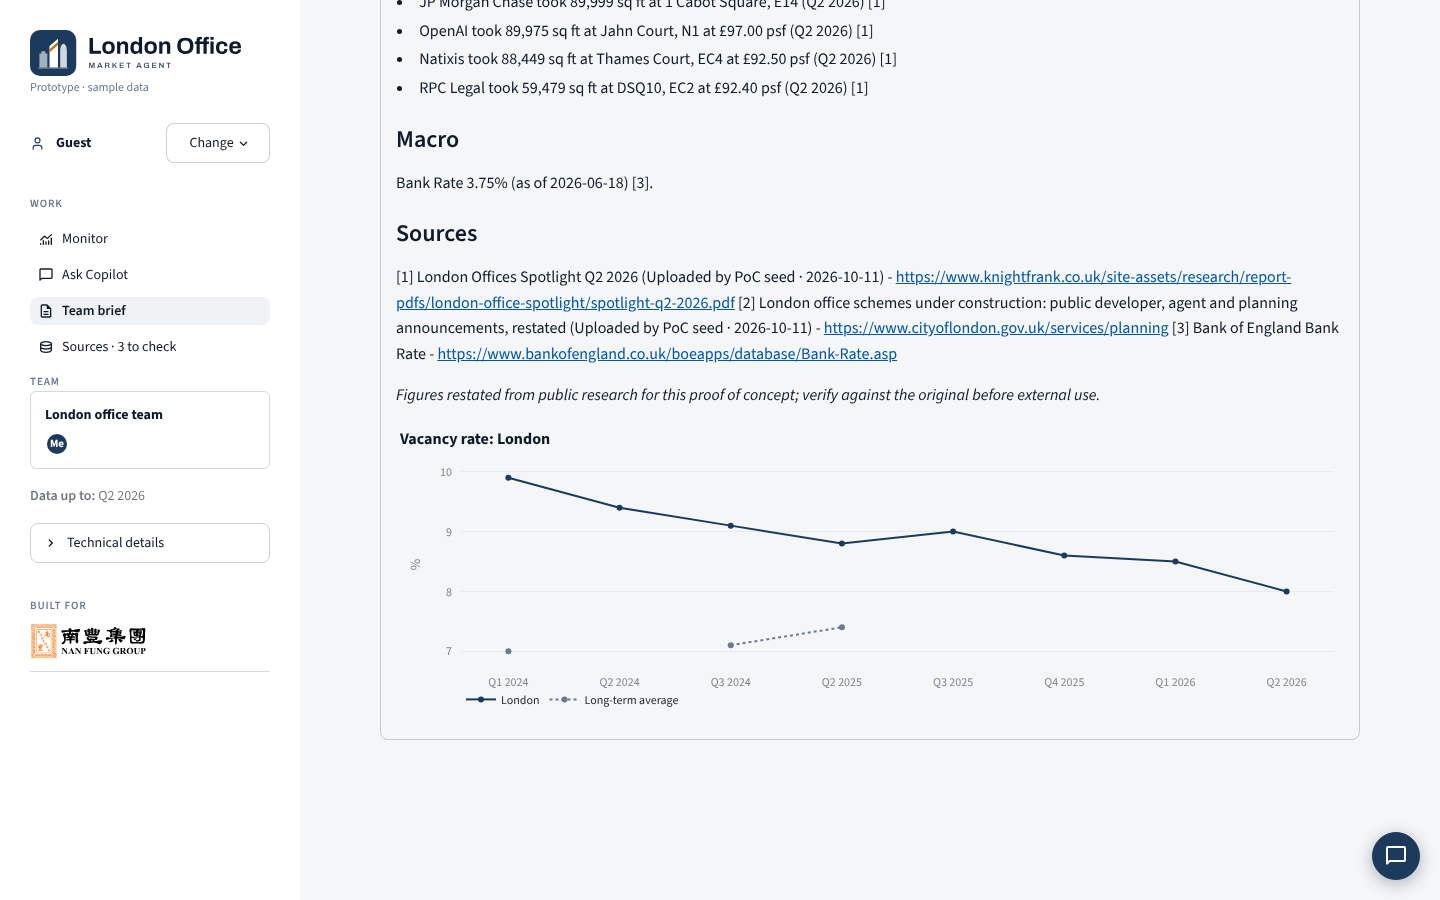
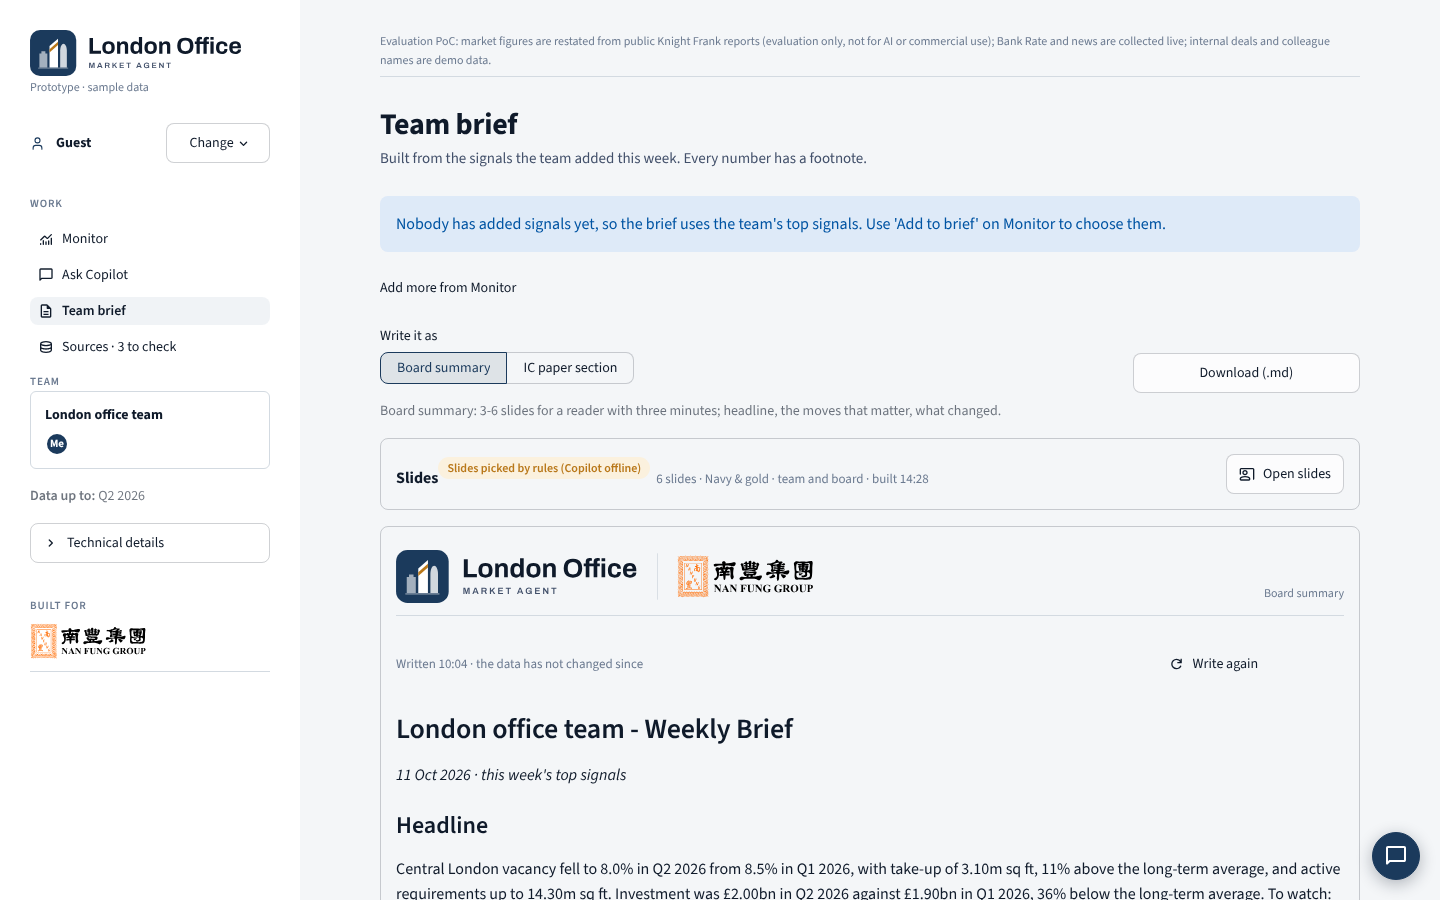
Team brief: the slides stay folded on the page
Before: the Slides block on Team brief showed the theme picker, download
buttons, a thumbnail of every slide and the "why these slides" notes on
the page itself.

After: one row with the deck's status (how it was chosen, slide count,
theme, when it was built, how often edited) and a single button: Build
slides when no deck exists for this data, Open slides once one does. The
button opens the floating editor, which holds the thumbnails, the theme
control, the downloads and the conversation.

Claude-Session: https://claude.ai/code/session_01VssUfiVQ3tn9b1dVnCTiLG

diff --git a/app.py b/app.py
@@ -118,7 +118,9 @@ SCOPE [class*="st-key-cp_top_"] { padding:10px 0 8px 0; margin-bottom:4px; }
 SCOPE [class*="st-key-cp_top_"] { flex-wrap:nowrap !important; }
 SCOPE [class*="st-key-cp_top_"] > .stElementContainer:has(> .stHtml) { flex:1 1 auto; width:auto !important; min-width:0; }
 SCOPE [class*="st-key-cp_top_"] > .stElementContainer:has(> .stHtml) .loa-cp-title { flex-wrap:nowrap; overflow:hidden; }
-SCOPE [class*="st-key-cp_top_"] .loa-cp-title .loa-chip { overflow:hidden; text-overflow:ellipsis; max-width:260px; }
+SCOPE [class*="st-key-cp_top_"] .loa-cp-title .loa-deck-row { display:flex; align-items:center; gap:12px; flex-wrap:wrap; font-size:14px; }
+.loa-deck-row .loa-muted { font-size:13px; }
+.loa-chip { overflow:hidden; text-overflow:ellipsis; max-width:260px; }
 SCOPE .loa-cp-title { font-size:16px; font-weight:700; color:var(--ink); display:flex; align-items:center; gap:10px; flex-wrap:wrap; line-height:32px; }
 SCOPE .loa-cp-title .loa-chip { margin:0; font-weight:400; line-height:20px; background:var(--surface); border:1px solid var(--line); }
 SCOPE .loa-cp-title small { font-size:12px; font-weight:400; color:var(--ink3); }
@@ -2204,70 +2206,30 @@ def deck_editor():
 
 
 def deck_panel(fmt):
-    """One place for the slides: theme (with swatches), Build, and for a deck already built from this data the
-    preview (one image per slide), Download .pptx / .pdf, and why these slides. Changing the theme shows that
-    theme's deck if it was built, otherwise the Build button."""
-    with st.container(border=True):
-        st.markdown("**Slides**  ·  " + ("the Copilot reads this week's data and picks the slides, layouts and titles"
-                                        if engine.ready else "picked by rules from this week's data (Copilot offline)"))
-        c = st.columns([2.6, 1.3, 1.3, 1.0, 1.4], vertical_alignment="bottom")
-        if (w := st.session_state.pop("deck_theme_want", None)) and w[0] == fmt:
-            st.session_state[f"deck_theme_{fmt}"] = w[1]  # the editor changed the theme: follow it
-        theme = c[0].selectbox("Slide theme", list(DECK_THEMES), format_func=DECK_THEMES.get, key=f"deck_theme_{fmt}",
-                               index=list(DECK_THEMES).index("data-white" if fmt == "ic" else "navy-gold"),
-                               help="Each format remembers its own theme. IC packs default to Data white.")
-        hit = cached_deck(fmt, theme)
-        if c[1].button("Build again" if hit else "Build slides", key=f"mk_deck_{fmt}", width="stretch",
-                       type="secondary" if hit else "primary", icon=material("refresh-cw") if hit else None,
-                       help=("The slides for this data are already built; this plans them again" if hit else
-                             "Plans a 3-6 slide deck from this week's data; you watch each slide being laid out")):
-            open_deck_editor(fmt, theme, build=True)
-        if not hit:
-            c[4].caption("Five house themes, 13 layouts, every number footnoted and checked against the data. For a "
-                         "deck this button does not give you, ask Copilot: \"a client update on the forest theme that "
-                         "only covers Midtown\".")
-            st.html(theme_swatches())
-            if (st.session_state.get("deck_ed") or {}).get("open"):
-                deck_editor()
-            return
-        d = hit["data"]
-        c[2].download_button("Download .pptx", Path(hit["path"]).read_bytes(), file_name=Path(hit["path"]).name,
-                             mime="application/vnd.openxmlformats-officedocument.presentationml.presentation",
-                             key=f"dl_deck_{fmt}_{theme}", width="stretch", type="primary")
-        if d.get("pdf") and Path(d["pdf"]).exists():
-            c[3].download_button("PDF", Path(d["pdf"]).read_bytes(), file_name=Path(hit["path"]).stem + ".pdf",
-                                 mime="application/pdf", key=f"dl_pdf_{fmt}_{theme}", width="stretch")
-        if c[4].button("Open editor", key=f"ed_open_{fmt}", width="stretch", icon=material("message-square"),
-                       help="Thumbnails, a big preview and a chat to change the slides"):
-            open_deck_editor(fmt, theme)
-        label, plain = DECK_MSG[d["how"]]
+    """The slides stay folded on the page: one row with a status line and a single Slides button. The button
+    opens the floating editor, building the deck first when none exists for this data; the thumbnails, the
+    theme, the downloads and the conversation all live in that window."""
+    if (w := st.session_state.pop("deck_theme_want", None)) and w[0] == fmt:
+        st.session_state[f"deck_theme_{fmt}"] = w[1]  # the editor changed the theme: follow it
+    theme = st.session_state.setdefault(f"deck_theme_{fmt}", "data-white" if fmt == "ic" else "navy-gold")
+    hit = cached_deck(fmt, theme)
+    d = (hit or {}).get("data") or {}
+    if hit:
+        label, _plain = DECK_MSG[d["how"]]
         edits = len(d.get("edits") or [])
-        st.html(f'<div class="loa-muted" style="margin:4px 0 8px 0">{chip(label, "ok" if d["how"] == "copilot" else "warn")}'
-                f'Built {esc(when(hit["ts"]))} · the data has not changed since'
-                + (f' · edited {edits} time{"s" if edits != 1 else ""} in the editor' if edits else "")
-                + (f' · {esc(d["note"])}' if d.get("note") else "") + "</div>")
-        pages = [q for q in d.get("pages") or [] if Path(q).exists()]
-        if pages:
-            cols = st.columns(3)
-            for i, (q, title) in enumerate(zip(pages, d.get("titles") or [""] * len(pages))):
-                with cols[i % 3]:
-                    st.image(q, width="stretch")
-                    if st.button(f"{i + 1} · {title}" if title else str(i + 1), key=f"pg_{fmt}_{theme}_{i}",
-                                 type="tertiary", width="stretch", help="Open this slide in the editor"):
-                        open_deck_editor(fmt, theme, sel=i + 1)
-        else:
-            st.caption("No slide images on this server (" + (d.get("preview_note") or "preview not rendered")
-                       + "); the outline:")
-            for line in d.get("slides") or []:
-                st.markdown(f"- {line}")
-        row = st.columns([1.4, 4.6], vertical_alignment="center")
-        with row[0].popover("Why these slides", width="stretch"):
-            st.caption(f"{fx.BRIEF_FORMATS[fmt]} · {DECK_THEMES[d['theme']]}")
-            for line in d.get("slides") or []:
-                st.markdown(f"- {line}")
-        for q in d.get("problems") or []:
-            row[1].html(f'<div class="loa-muted">{ic("triangle-alert", 13, "flag")}{esc(q)}</div>')
-        st.html(theme_swatches())
+        status = (f'{chip(label, "ok" if d["how"] == "copilot" else "warn")}{len(d.get("titles") or [])} slides · '
+                  f'{esc(DECK_THEMES.get(d["theme"], d["theme"]))} · built {esc(when(hit["ts"]))}'
+                  + (f' · edited {edits} time{"s" if edits != 1 else ""}' if edits else ""))
+    else:
+        status = ("Not built yet · the Copilot reads this week's data and picks the slides, layouts and titles"
+                  if engine.ready else "Not built yet · picked by rules from this week's data (Copilot offline)")
+    with st.container(border=True, key=f"deck_row_{fmt}", horizontal=True, vertical_alignment="center", gap="small"):
+        st.html(f'<div class="loa-deck-row"><b>Slides</b><span class="loa-muted">{status}</span></div>', width="stretch")
+        if st.button("Open slides" if hit else "Build slides", key=f"mk_deck_{fmt}", width="content",
+                     type="secondary" if hit else "primary", icon=material("presentation") if hit else None,
+                     help=("Thumbnails, a big preview, downloads and a chat to change the slides" if hit else
+                           "Plans a 3-6 slide deck from this week's data; you watch each slide being laid out")):
+            open_deck_editor(fmt, theme, build=not hit)
     if (st.session_state.get("deck_ed") or {}).get("open"):
         deck_editor()
 

diff --git a/README.md b/README.md
@@ -10,7 +10,7 @@ the three jobs the brief names: stay ahead of the market, support decisions, and
 |---|---|---|
 | **Monitor** (stay ahead, spot risks early) | Monitor | A freshness strip, the team summary and ranked "what changed" signal cards: numbers line (before → after · change), why it matters, source chips, Add to brief. Toggle **Whole team** or **For you**. The team view is the day's pick (alerts and flagged figures always, then the best of the rest, one card per story, at most two per measure or submarket), the rest folded by category below, and a New chip on what arrived since you last looked; news leaves Monitor when it stops being active (30 days, 60 for deals) but stays in the library. Side panels: Share a link or tip (one box; the agent files it), Alerts (rules in your own words, parsed live; yours until you press Share with team), Team activity (only what colleagues chose to share). Hide for me hides a signal from your own views. |
 | **Decide** (ask, compare, drill down) | Ask Copilot | Ask anything from any page: a floating button at the bottom right of every page (also Ctrl+K, or the / key) opens the side panel (about 500px, the page stays visible beside it); Ask Copilot in the left navigation is the full page. The conversation is laid out the way people know from ChatGPT: a bar at the top that stays put while you scroll (what the Copilot is looking at, History, New chat), a centred 760px thread (your question as a light bubble on the right, the answer as plain text with no avatar or frame, a folded "Worked through N steps" line above it and its sources under it), and the chat box pinned at the bottom with a one-line reminder that every number links to its source. A new chat opens on a greeting with example questions as pills ("Set up my focus" is the first). It knows the page you are on, or the signal you asked from. The answer streams in as the model writes it, with a status line naming each tool as it starts; while it writes, the send button becomes Stop; the thread follows the output while you are at the bottom and stays put when you scroll up to read (a round ↓ button above the chat box brings you back); the cursor returns to the box after each answer. Under each answer a row of small buttons: Copy, thumbs up / down, Ask again, Share to team; the latest answer's row stays, older rows appear when the pointer is over that answer. No login: the first visit asks who you are (pick a team name or type one) and the browser remembers it in a cookie, so a refresh or a bookmark brings back the same person and their last conversation. Conversations are saved under your name and stay private: History (top right of the chat) lists them to resume, New chat starts a clean one with its own context. Only a shared answer appears in Team activity, with your name and the time; "Shared to team · Undo" takes it out. The example questions appear only on a new chat; after an answer the Copilot offers its own follow-up questions as buttons. It answers in the language you ask in (English by default, Chinese for a Chinese question). The input box is pinned to the bottom of the page and of the side panel. Every number comes from a tool with its source. If you ask about a publisher the library has no figures from ("what does Savills say…") or an area it does not track (Shoreditch), it says so first and names the nearest covered submarket. |
-| **Report** (board and IC) | Team brief | Anyone can press Add to brief on a signal. The brief is written as a board summary or an IC paper section, with every figure footnoted to its source. The brief is written once per state of the data: opening the page again reads it back with "Written … · the data has not changed since", and only new data, a changed pick of signals, or **Write again** calls the model. Download it as Markdown, or press **Build slides**: a floating slide editor opens over the page, laid out like a presentation app (thumbnails with page numbers on the left, the chosen slide large in the middle, the Copilot on the right). While it builds you watch the storyline being planned (the Copilot's reasoning streams into the chat column), every slide first appears as a hatched "Planned: layout" frame, and each thumbnail fills in as that slide is laid out; **Stop** keeps what is built. In the editor the conversation column is the same Copilot as everywhere else in the app (the same saved chats under the person's name, streamed with a Stop, the action row under each answer, follow-ups, History) and it changes the deck by conversation, in English or Chinese ("make slide 2's title shorter", "需要多兩頁", "add a slide on investment", "remove the deals slide", "swap slides 2 and 3", "theme forest"): the Copilot revises the spec and builds again, and without a model the same plain commands are applied by rules (`core/deck_edit.py`). A deck may grow to 12 slides in the editor; slides carry ids, so the Copilot may not drop a slide nobody asked to drop (a revision that would is held back with Apply / Keep buttons), and every reply describes the deck as it was actually built, from the difference between the old and the new spec by id, never from the model's own account. Several commands go in one message ("刪第3頁，然後換森林主題"), "this slide" means the selected one, charts take a range, submarkets or a type ("只顯示最近四季的空置率", "only West End Core and City Core", "as a line chart"), a theme can be named by colour or audience ("for a client update"), "shorten to 4 slides" drops the weakest stories, and a figure that is not in the data is refused with the current value in the instruction's language ("47.3% 不在本週數據裡（目前空置率 8.0%）"). Every state is kept as a version: **Undo** and the version list in the header go back without a rebuild, and the theme control rebuilds an edited deck on the new theme instead of planning it again. When the Copilot fails to answer, the rule editor stands in and says so. The bar under the big slide moves a slide up or down or removes it, the cover and sources stay first and last, a deck never drops under three slides, and a figure that is not in the data is refused as always. Every change re-renders the pages and updates **Download .pptx** and **PDF** at once. The deck is built once per data state, format and theme, kept under `data/exports/decks/` and shown on the page as one image per slide (click one to open it in the editor); the preview needs LibreOffice and poppler on the server, both in the Docker image; without them the page shows the slide outline and the .pptx. Coming back to the page with the same data shows the same deck without building again; **Build again** forces a new plan. The deck is a 3-12 slide (3-6 when first planned) editable PowerPoint on one of five house themes (navy-gold, editorial-cream, data-white, charcoal-amber, forest-cream) built by python-pptx from the library, with native charts, KPI tiles, so-what bands and signal cards. The storyline is not a fixed template: the Copilot reads this week's data and a ranked list of story candidates (alert lines crossed, biggest moves, gaps to the long-term average, new deals) and decides which 1-4 topics get a slide, which layout each gets and why; the why is written into the slide notes and shown under "Why these slides". Without a model a rule-picked plan from the same candidates is used and labelled as the fallback. The Copilot can also write the whole storyline on request ("make the brief into slides", "a client update deck on the forest theme"): it picks the theme and layouts and writes the titles, so-what lines and notes; any number in its text that is not in the data is refused, and a post-build check reports overflow, overlaps and leftover text so the model fixes and rebuilds. See [docs/brief-deck.md](docs/brief-deck.md). |
+| **Report** (board and IC) | Team brief | Anyone can press Add to brief on a signal. The brief is written as a board summary or an IC paper section, with every figure footnoted to its source. The brief is written once per state of the data: opening the page again reads it back with "Written … · the data has not changed since", and only new data, a changed pick of signals, or **Write again** calls the model. Download it as Markdown, or press **Build slides**: the slides stay folded on the page (one row with the deck's status and a single button; **Open slides** once a deck exists) and a floating slide editor opens over the page, laid out like a presentation app (thumbnails with page numbers on the left, the chosen slide large in the middle, the Copilot on the right). While it builds you watch the storyline being planned (the Copilot's reasoning streams into the chat column), every slide first appears as a hatched "Planned: layout" frame, and each thumbnail fills in as that slide is laid out; **Stop** keeps what is built. In the editor the conversation column is the same Copilot as everywhere else in the app (the same saved chats under the person's name, streamed with a Stop, the action row under each answer, follow-ups, History) and it changes the deck by conversation, in English or Chinese ("make slide 2's title shorter", "需要多兩頁", "add a slide on investment", "remove the deals slide", "swap slides 2 and 3", "theme forest"): the Copilot revises the spec and builds again, and without a model the same plain commands are applied by rules (`core/deck_edit.py`). A deck may grow to 12 slides in the editor; slides carry ids, so the Copilot may not drop a slide nobody asked to drop (a revision that would is held back with Apply / Keep buttons), and every reply describes the deck as it was actually built, from the difference between the old and the new spec by id, never from the model's own account. Several commands go in one message ("刪第3頁，然後換森林主題"), "this slide" means the selected one, charts take a range, submarkets or a type ("只顯示最近四季的空置率", "only West End Core and City Core", "as a line chart"), a theme can be named by colour or audience ("for a client update"), "shorten to 4 slides" drops the weakest stories, and a figure that is not in the data is refused with the current value in the instruction's language ("47.3% 不在本週數據裡（目前空置率 8.0%）"). Every state is kept as a version: **Undo** and the version list in the header go back without a rebuild, and the theme control rebuilds an edited deck on the new theme instead of planning it again. When the Copilot fails to answer, the rule editor stands in and says so. The bar under the big slide moves a slide up or down or removes it, the cover and sources stay first and last, a deck never drops under three slides, and a figure that is not in the data is refused as always. Every change re-renders the pages and updates **Download .pptx** and **PDF** at once. The deck is built once per data state, format and theme and kept under `data/exports/decks/`; the thumbnails, theme, downloads and conversation are all inside the editor window, nothing is shown on the page itself; the preview needs LibreOffice and poppler on the server, both in the Docker image; without them the editor shows the slide outline and the .pptx. Coming back to the page with the same data shows the same deck without building again; **Build again** forces a new plan. The deck is a 3-12 slide (3-6 when first planned) editable PowerPoint on one of five house themes (navy-gold, editorial-cream, data-white, charcoal-amber, forest-cream) built by python-pptx from the library, with native charts, KPI tiles, so-what bands and signal cards. The storyline is not a fixed template: the Copilot reads this week's data and a ranked list of story candidates (alert lines crossed, biggest moves, gaps to the long-term average, new deals) and decides which 1-4 topics get a slide, which layout each gets and why; the why is written into the slide notes and shown under "Why these slides". Without a model a rule-picked plan from the same candidates is used and labelled as the fallback. The Copilot can also write the whole storyline on request ("make the brief into slides", "a client update deck on the forest theme"): it picks the theme and layouts and writes the titles, so-what lines and notes; any number in its text that is not in the data is refused, and a post-build check reports overflow, overlaps and leftover text so the model fixes and rebuilds. See [docs/brief-deck.md](docs/brief-deck.md). |
 | Shared data | Sources | One library for the whole team, three kinds of source, each shown as a coloured dot with a text label. Open data is collected automatically; uploaded reports come from anyone on the team; **internal data** is the company's own lettings, leases and valuations, recorded from a sentence to the Copilot, a photo (lease page, WhatsApp screenshot), a PDF or a spreadsheet, all through the same agent into one deal record. Pieces arrive separately and are merged by property and floor; drafts list their missing fields; the recorder confirms; each record is internal-only or quotable, and the brief lists "Our deals" apart from "Market deals" (the IC paper gets quotable records only). See [docs/internal-data.md](docs/internal-data.md). Cards for the gathering round, adding a source (the agent proposes how it will be collected after reading its terms), the information agent, and what needs a person. |
 
 **Market aspects the brief names, and where each one lives.** Prime rents, vacancy, take-up, availability,
